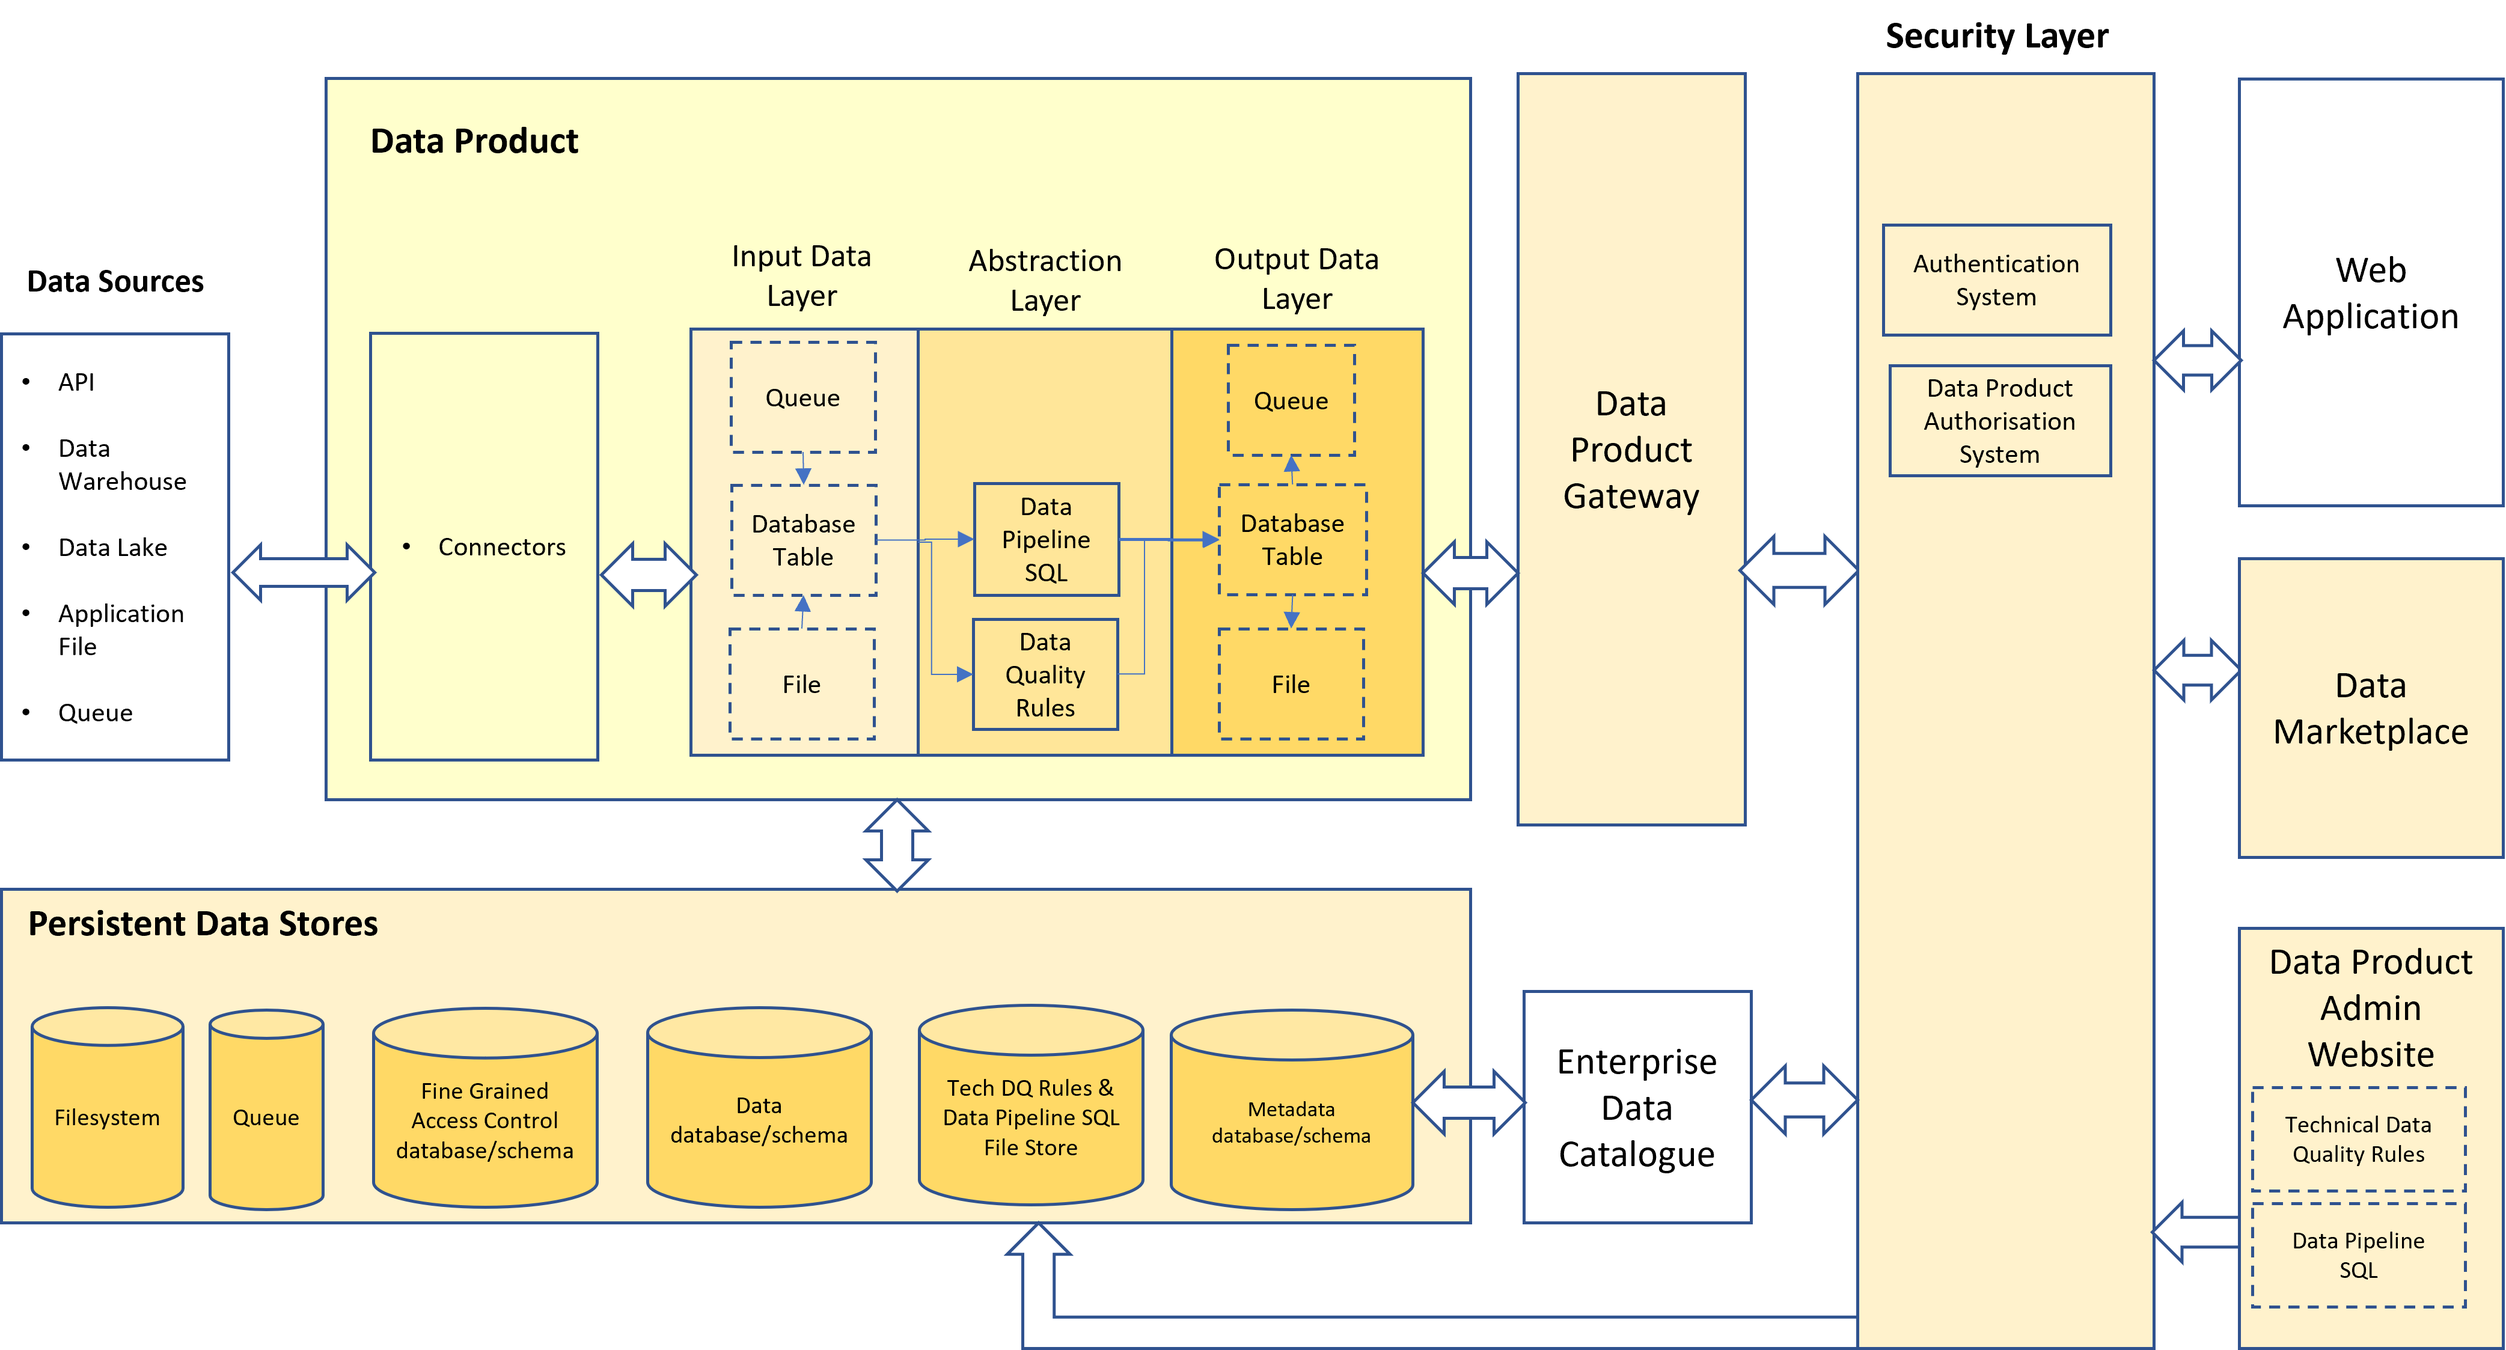
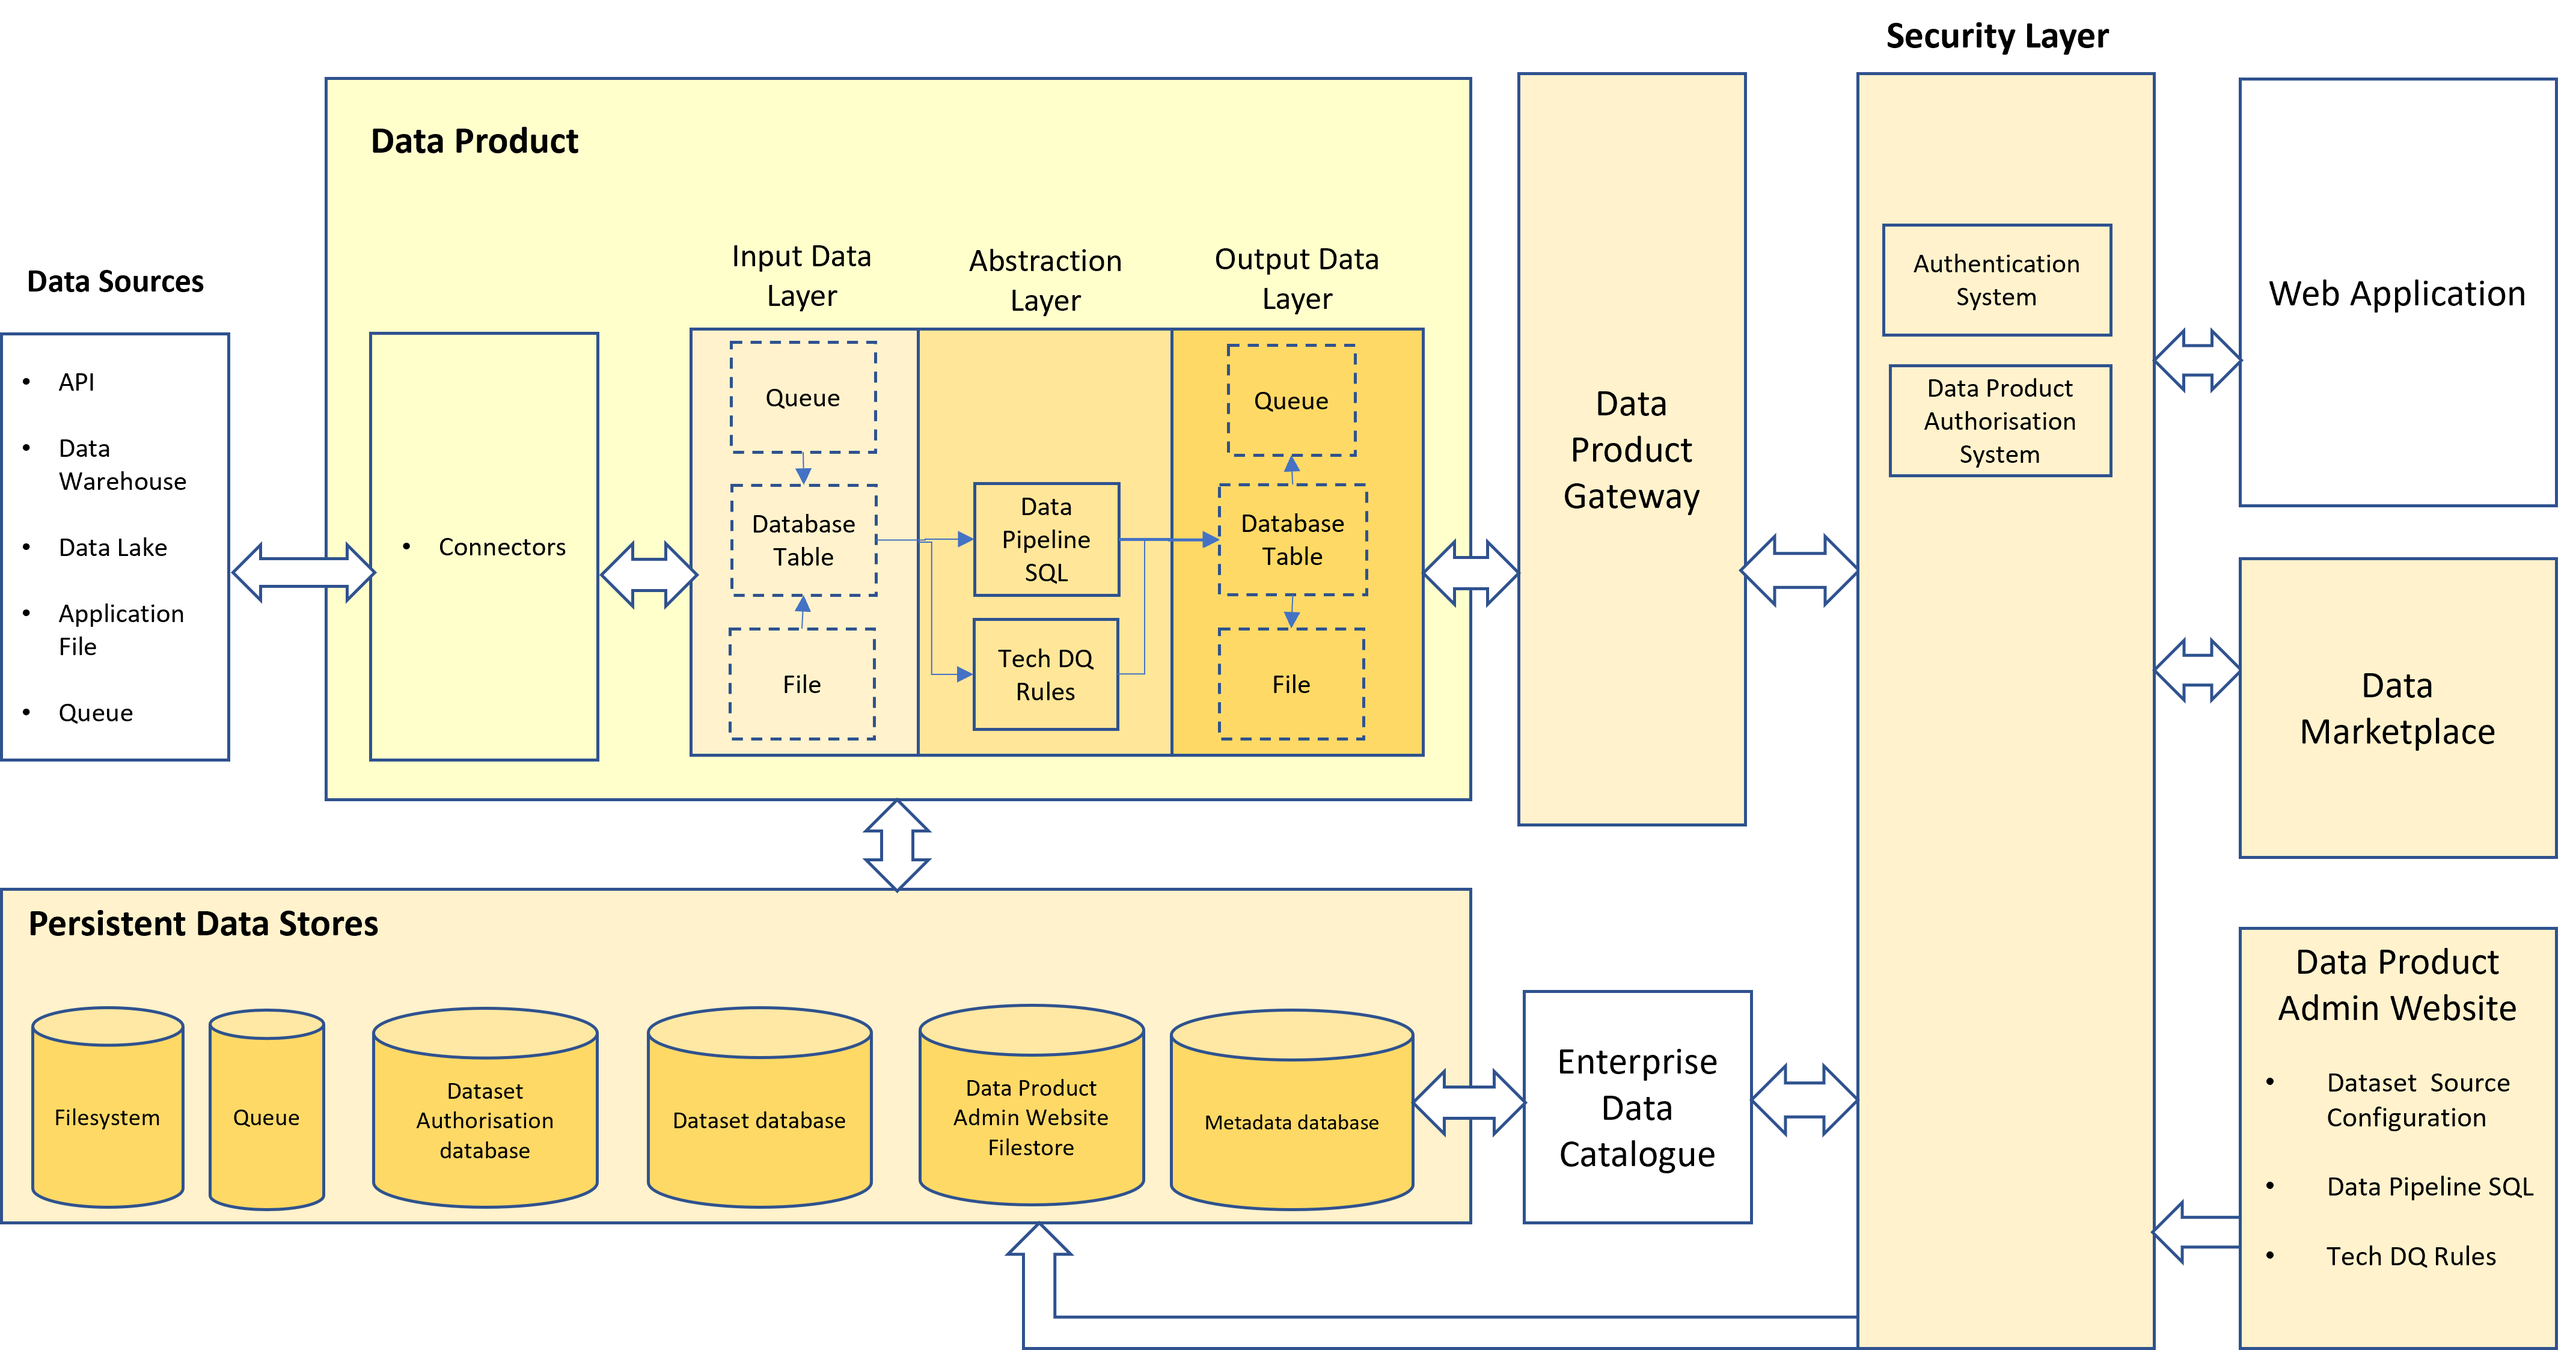
Fixed some typos, amended the architecture diagrams and improved the commentary on security and performance

diff --git a/dp-performance.md b/dp-performance.md
@@ -17,7 +17,7 @@ SQL provides much more sophisticated control over what will be returned in a dat
 
 ## Improving performance 
 
-Given these differences how can we improve performance?
+Given these differences how can we ensure/improve performance?
 
 Well if you consider that analytical systems are aggregating information, do data products necessarily have to hold aggregated data sets?
 Remember 1 of the key features of the data product/data mesh concept is that they should be decentralised / federated?
@@ -31,17 +31,18 @@ So data products could be made more efficient by:-
 As data products have standardised interfaces, it will be easy to construct higher level data products from more granular data products.
 ![dp interoperability example](dp-interoperability.png)
 
-## Reducing dataset size for Power BI reporting
+## Reducing dataset size for BI reporting
 With reports, the report developer really has 2 options:-
 
-1. A direct query option. In this scenario, the REST API would still provide metadata
-(e.g. link to data sharing agreement, data lineage, name, version, description, dataset data dictionary, endpoint access info) 
-as this is still vitally important info. But the report developer would make a direct connection to the backend store rather 
-than going via the REST API. This option is suitable where import of data isn't desirable due to need to refresh the data frequently 
-or the dataset being very large and hence a REST API being less performant.
+1. A direct query option. In this scenario, where the report is expected to directly query a data source, 
+the easiest solution is to simply allow the report developer to be able to securely connect to the dataset database as a datasource.  
+The report developer will be able to find the relevant metadata either by going to:-
+   * The data marketplace
+   * The enterprise data catalog
+   * Querying the metadata database
 
-2. An import option. In this scenario a query that would have been generated in Power BI
-(or similar tools) can be injected into a REST API as pipeline SQL, essentially 
+2. An import option. In this scenario a query that would have been generated in the reporting tool
+can be injected into the data product as pipeline SQL, essentially 
 creating a data product that has the query resultset as a dataset/payload. 
 This option works in scenarios where the resulting dataset/payload is relatively small. 
 The import option is also the recommended option for modern BI tools such as 

diff --git a/index.md b/index.md
@@ -11,30 +11,30 @@ which is in turn based on thinking formulated with [Martin Fowler](https://marti
 It will cover the following topics:- 
 * [What is special about data products](dp-business-benefits.md)
 * The [data mesh principles](data-mesh-principles.md) and what is a data product
-* [Data Product Types](dp-types.md)
+* [Data product types](dp-types.md)
 * [Data product architecture](dp-architecture.md)
 * The creation of [data stores](dp-datastores.md) to store data captured from:-
    * Source to an Input Data Port/endpoint
    * Transformed into an abstraction layer
    * Formatted and sent via an Output Data Port/endpoint
-* [Required Documentation & Metadata](dp-docs_and_metadata.md)
+* [Required documentation & metadata](dp-docs_and_metadata.md)
 * The creation of the [discovery endpoint](dp-discovery-endpoint.md) which will allow information about the REST API to be discovered 
    i.e. human & machine readable documentation & data dictionary
 * The creation of [control endpoints](dp-control-endpoint.md) which will allow:-
    * Metadata and controls to be posted to a controls input port
    * Audit logs to be pulled from a controls output port
-* [Improving Data Quality](dp-data-quality.md)
-* [Authentication & Authorisation](dp-authentication.md)
+* [Improving data quality](dp-data-quality.md)
+* [Authentication & authorisation](dp-authentication.md)
 * How to [deploy to a cloud platform](cloud-platform-deployment.md)
-* [Data Product naming and versioning standards](dp-standards.md)
+* [Data product naming and versioning standards](dp-standards.md)
    * [REST API naming and versioning standards](REST-api-standards.md)
-   * [Queue/Stream naming and versioning standards](streaming-standards.md)
-   * [Data Set naming and versioning standards](ds-standards.md)
+   * [Dataset naming and versioning standards](ds-standards.md)
 * [Improving Performance](dp-performance.md)
-* [Capturing Metrics and Auditing](dp-audit-and-metrics.md)
+* [Capturing metrics and auditing](dp-audit-and-metrics.md)
 * Creation of data models in a [data modelling tool](data-modeling-tool.md)
+* How to create and where to store data lineage diagrams
 * Storage of metadata in a [data governance tool](data-governance-tool.md)
 * Creation of a [data marketplace](data-marketplace.md)
 * [Infrastructure](dp-infrastructure.md)
 
-[james.m.dey](mailto://james.dey@hotmail.com) January 2023
+[james.m.dey](mailto://james.dey@hotmail.com) February 2023

diff --git a/dp-architecture.md b/dp-architecture.md
@@ -61,8 +61,14 @@ The data product will have the following capabilities:-
 6. Can provide the data to data consumers as either:-
    * Files
    * Queues
-4. Will be performance managed by a Data Product gateway
-5. Will record it's metadata in a relational database that can feed an enterprise data catalogue.
-6. Will have it's metadata published on a data marketplace 
-7. Will have an endpoint that allows metadata and documentation to be retrieved programatically.
-
+7. Will be performance managed by a Data Product gateway
+8. Will record it's metadata in a relational database that can feed an enterprise data catalogue.
+9. Can be administered and configured via a Data Product Admin website which will allow the following to be defined and sent to the relevant data product component:-
+   * Data Product metadata
+   * Technical data quality rules
+   * Dataset source and storage in the persistent data store
+   * Data pipeline SQL which will move source datasets to target datasets
+10. Will have it's metadata:-
+   * Published on a data marketplace (useful for business users)
+   * Made available from a discovery port/endpoint (useful for developers)
+   * Made available by querying the metadata database directly (useful for data analysts)
